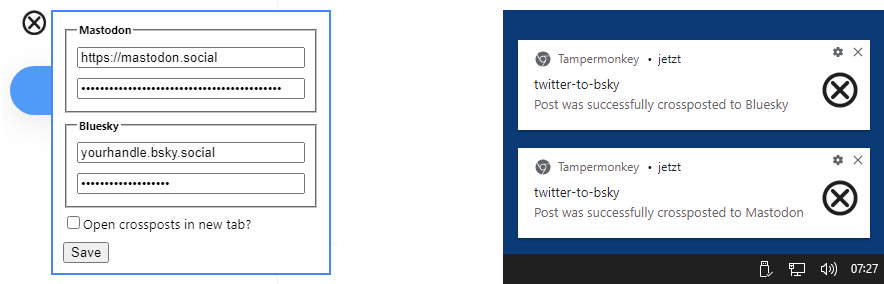
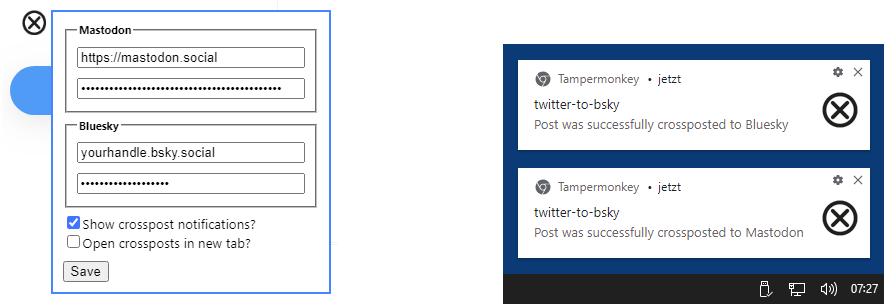
added option to turn notifications on/off

diff --git a/twitter-to-bsky.user.js b/twitter-to-bsky.user.js
@@ -106,13 +106,19 @@
 }
 .bsky-settings input[type="text"],
 .bsky-settings input[type="url"],
-.bsky-settings input[type="password"],
-.bsky-settings label:nth-of-type(2)
+.bsky-settings input[type="password"]
 {
   display: block;
   box-sizing: border-box;
   width: 100%;
   margin-bottom: 10px
+}
+.bsky-settings label {
+    display: block;
+    cursor: pointer;
+}
+.bsky-settings label:nth-of-type(2) {
+    margin-bottom: 10px
 }
 `;
     // Mastodon stuff

diff --git a/README.md b/README.md
@@ -30,8 +30,8 @@ If you now (re-)load the Twitter/X page, it will be "enhanced" with the followin
 
 ## Screenshots
 
-*Twitter/X enhanced with crosspost elements*
+*Twitter/X enhanced with crosspost elements*  
 ![Twitter/X enhanced with crosspost elements](screenshots/crosspost-buttons.jpg)
 
-*Settings dialog and system notifications (Windows 11)*
+*Settings dialog and system notifications (Windows 11)*  
 ![Settings dialog and system notifications](screenshots/crosspost-settings-notifications.png)
